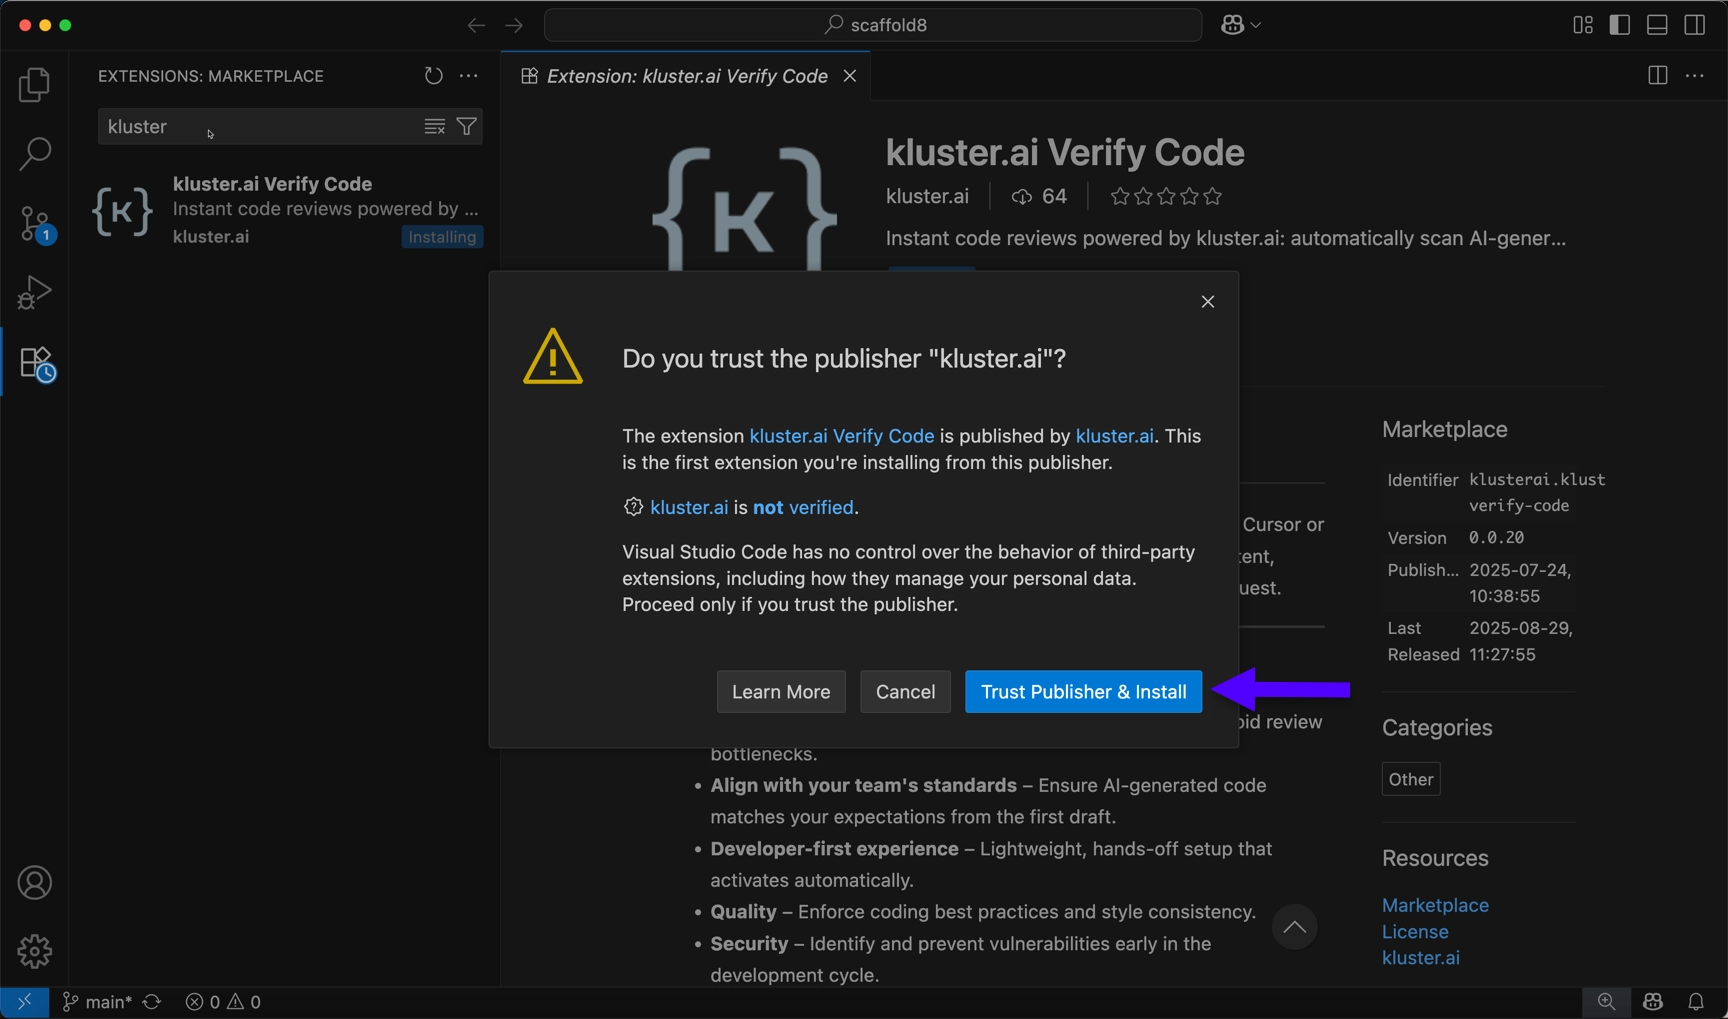
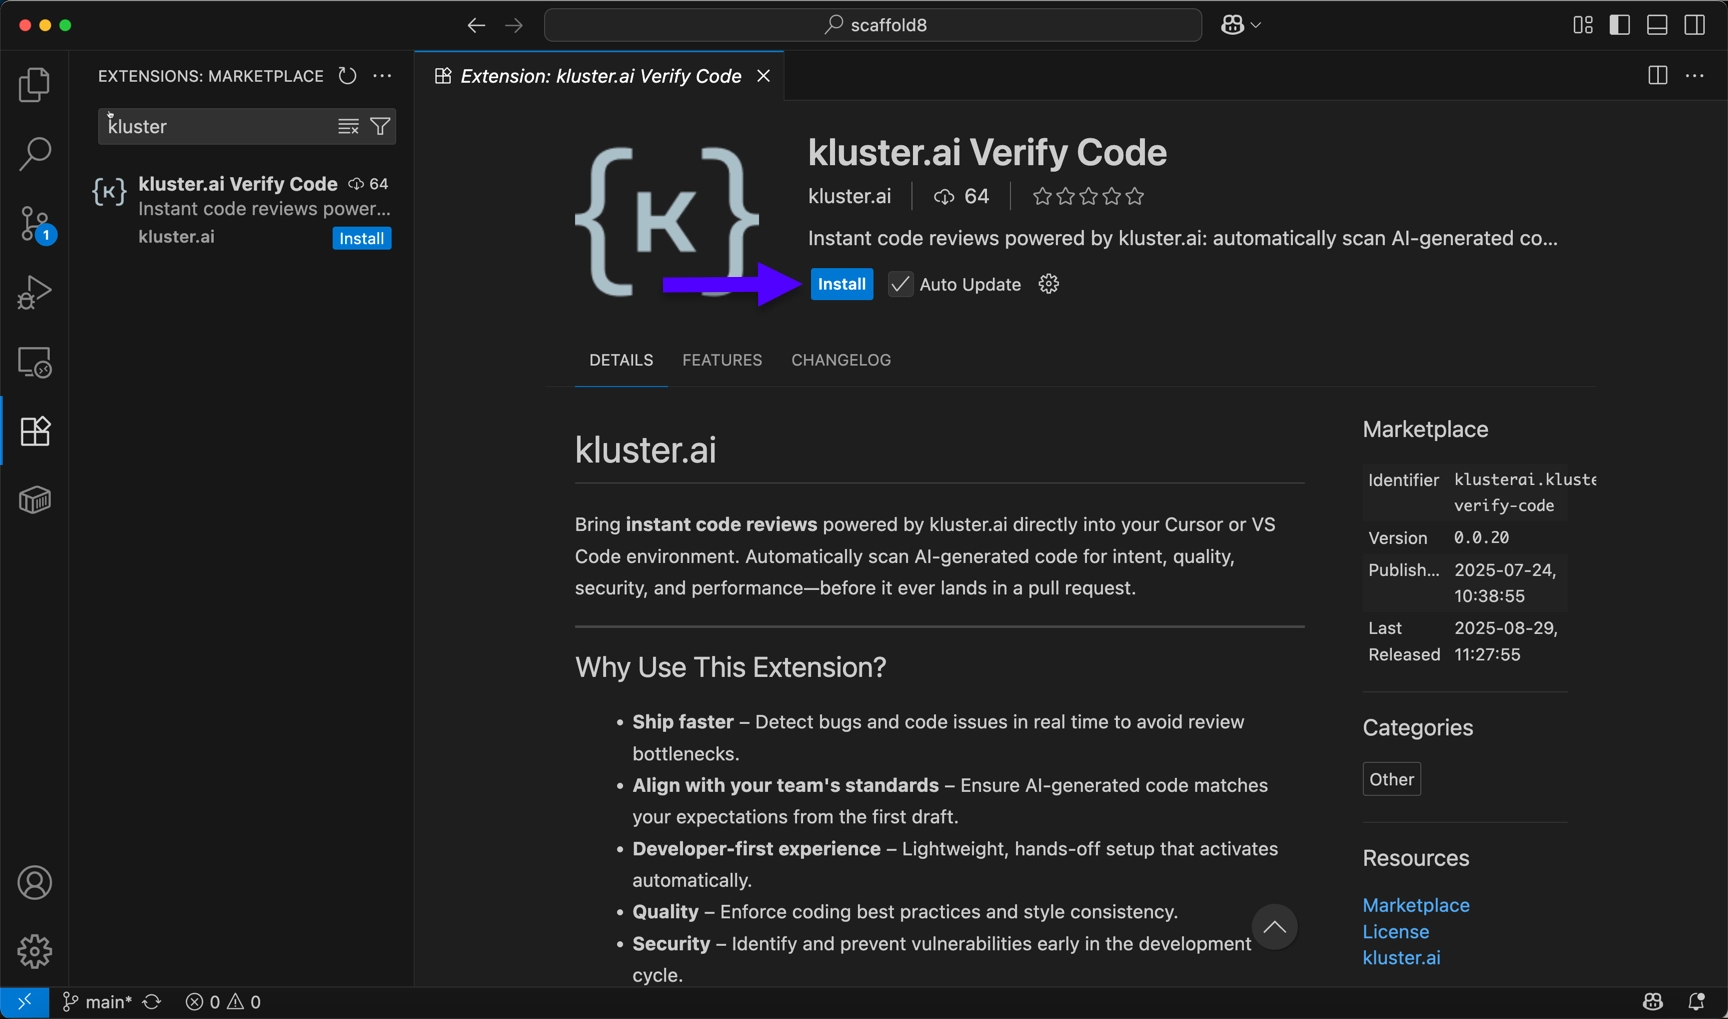
Update the VS Code Install instructions based on latest flow (#264)
* update install kluster for vscode instructions

* add clarity around last set of steps

* more clarity

* review

* fix image numbering

* indentation

---------

diff --git a/code-reviews/get-started/installation.md b/code-reviews/get-started/installation.md
@@ -30,11 +30,7 @@ Before getting started, ensure you have:
 
     3. Click **Install** to get the extension.
 
-        ![Install Extension](/images/code-reviews/get-started/installation/vscode/vscode-integration-0.webp)
-
-    4. Select **Trust Publisher & Install**.
-
-        ![Trust publisher](/images/code-reviews/get-started/installation/vscode/vscode-integration-1.webp)
+        ![Install Extension](/images/code-reviews/get-started/installation/vscode/vscode-integration-1.webp)
 
     Now that the extension is installed, you need to log in with your kluster.ai account:
 
@@ -53,19 +49,13 @@ Before getting started, ensure you have:
 
         ![Open and Install MCP](/images/code-reviews/get-started/installation/vscode/vscode-integration-5.webp)
 
-    5. To complete the setup, click **Install** to accept the MCP configuration for Code Reviews.
-
-        ![Install MCP](/images/code-reviews/get-started/installation/vscode/vscode-integration-6.webp)
-    6. Press **Trust** to Install the MCP server.
-    
-        ![MCP Server Trust Installation in VS Code](/images/code-reviews/get-started/installation/vscode/vscode-integration-7.webp)
-
-    Once installed, verify the setup:
+    Once signed in, to enable kluster.ai in the VS Code agent chat window, take the following steps:
 
     1. Open a Copilot chat window and select the **Tools** button on the bottom right corner.
-    2. Scroll down the list and **Kluster-Code-Reviews-MCP** should appear. Make sure all tools are enabled.
+    2. Search for **kluster** or scroll down the list until you find **Kluster-Verify-Tool**.
+    3. Check the **Kluster-Verify-Tool** box.
 
-        ![Active MCP Tools in VS Code](/images/code-reviews/get-started/installation/vscode/vscode-integration-8.webp)
+    ![Active MCP Tools in VS Code](/images/code-reviews/get-started/installation/vscode/vscode-integration-6.webp)
 
 === "Cursor"
 
